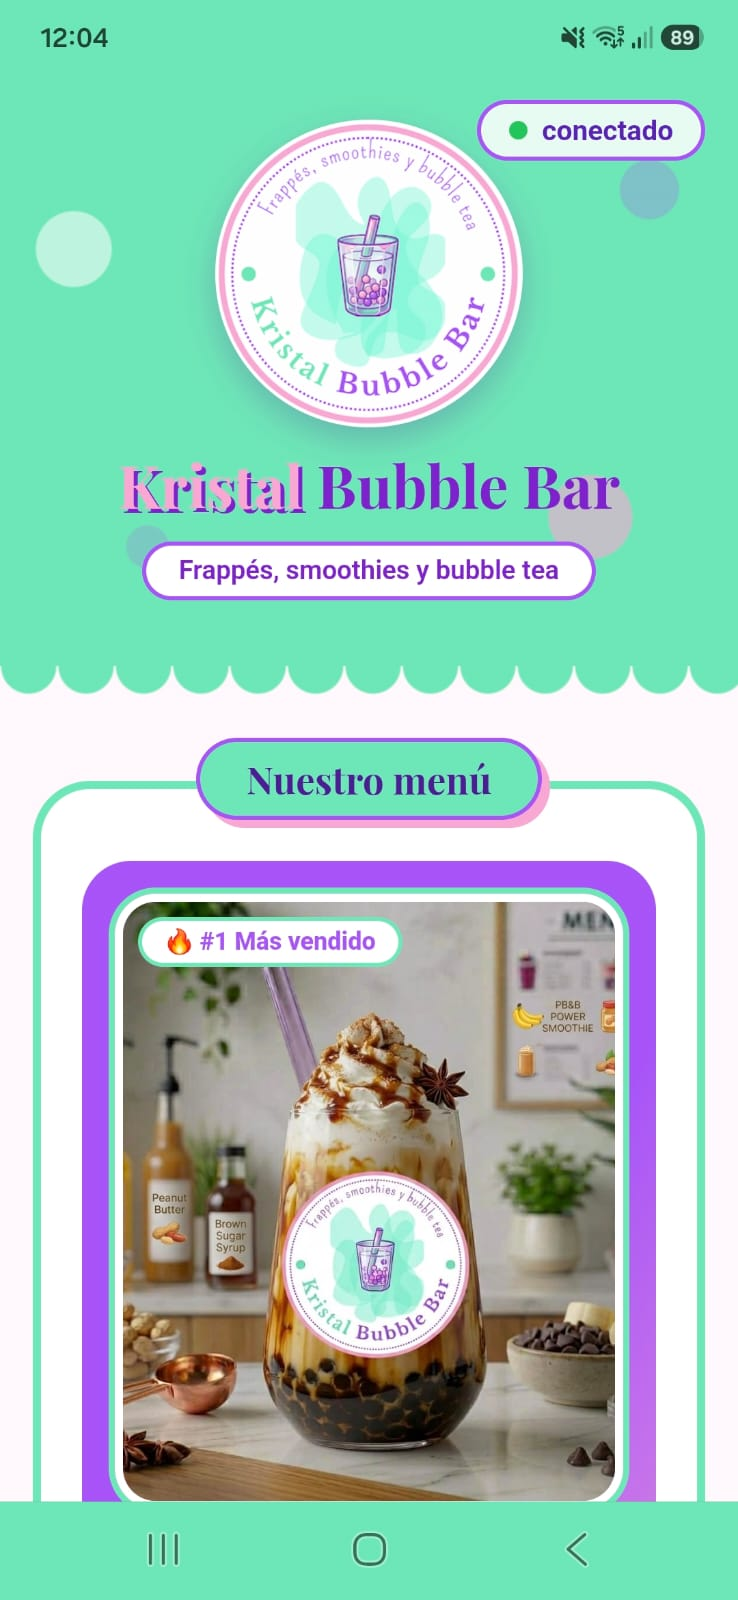
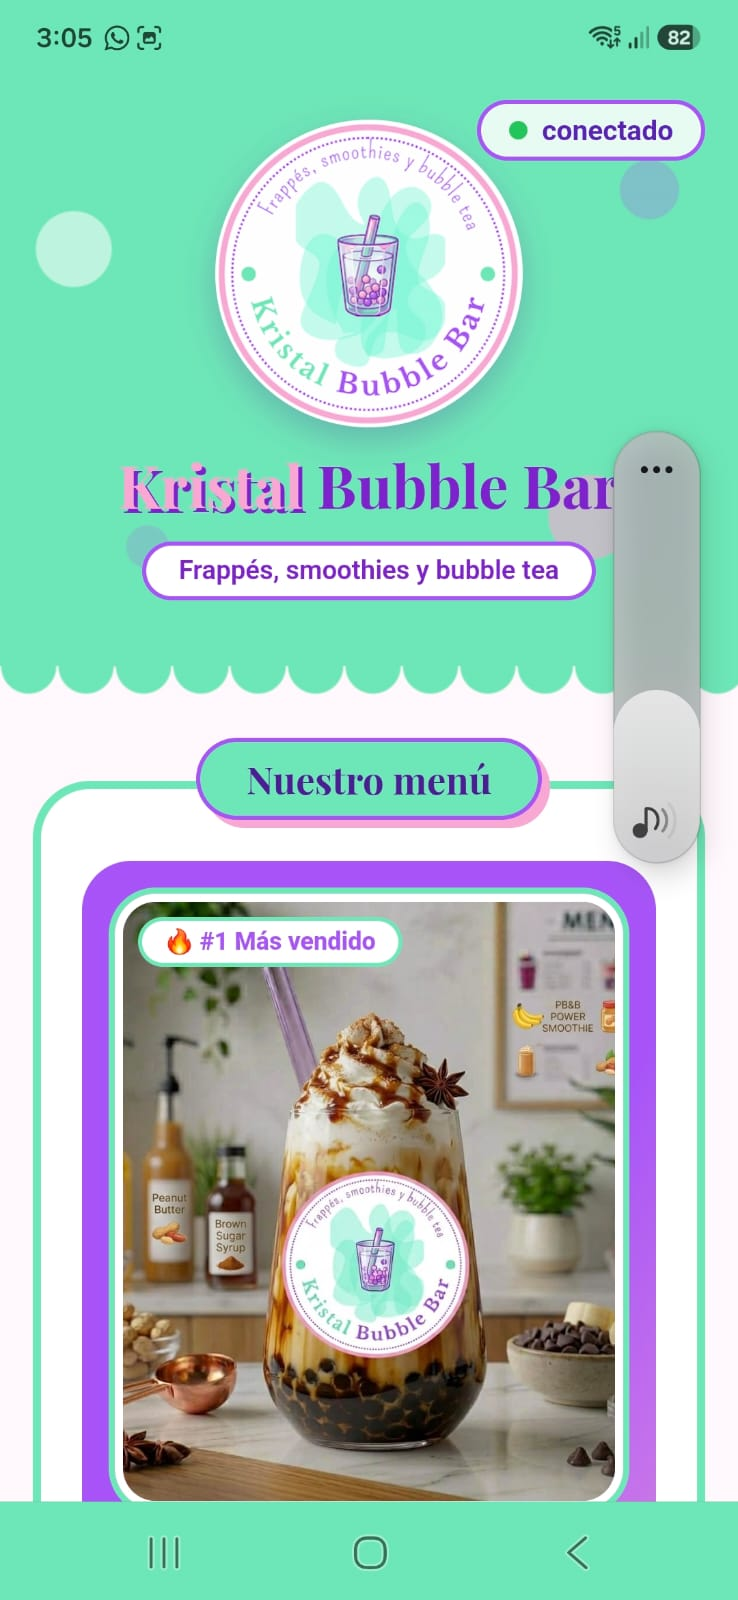
Avance 4: Service Worker regenerado para la publicación final - MORENO ALMEIDA YOSHELYN KRISTAL

diff --git a/README.md b/README.md
@@ -96,3 +96,14 @@
 
 ### sw.js: Workbox precachea el catálogo y las fotos
 ![Código fuente sw.js](docs/captura-sw.png)
+
+## Versión publicada (avance 4)
+
+### index.html en GitHub Pages
+![Código fuente publicado](docs/captura-pages-index.png)
+
+### manifest.json en GitHub Pages
+![manifest.json publicado](docs/captura-pages-manifest.png)
+
+### Mi app instalada en el celular
+![App instalada en el celular](docs/captura-celular.png)
